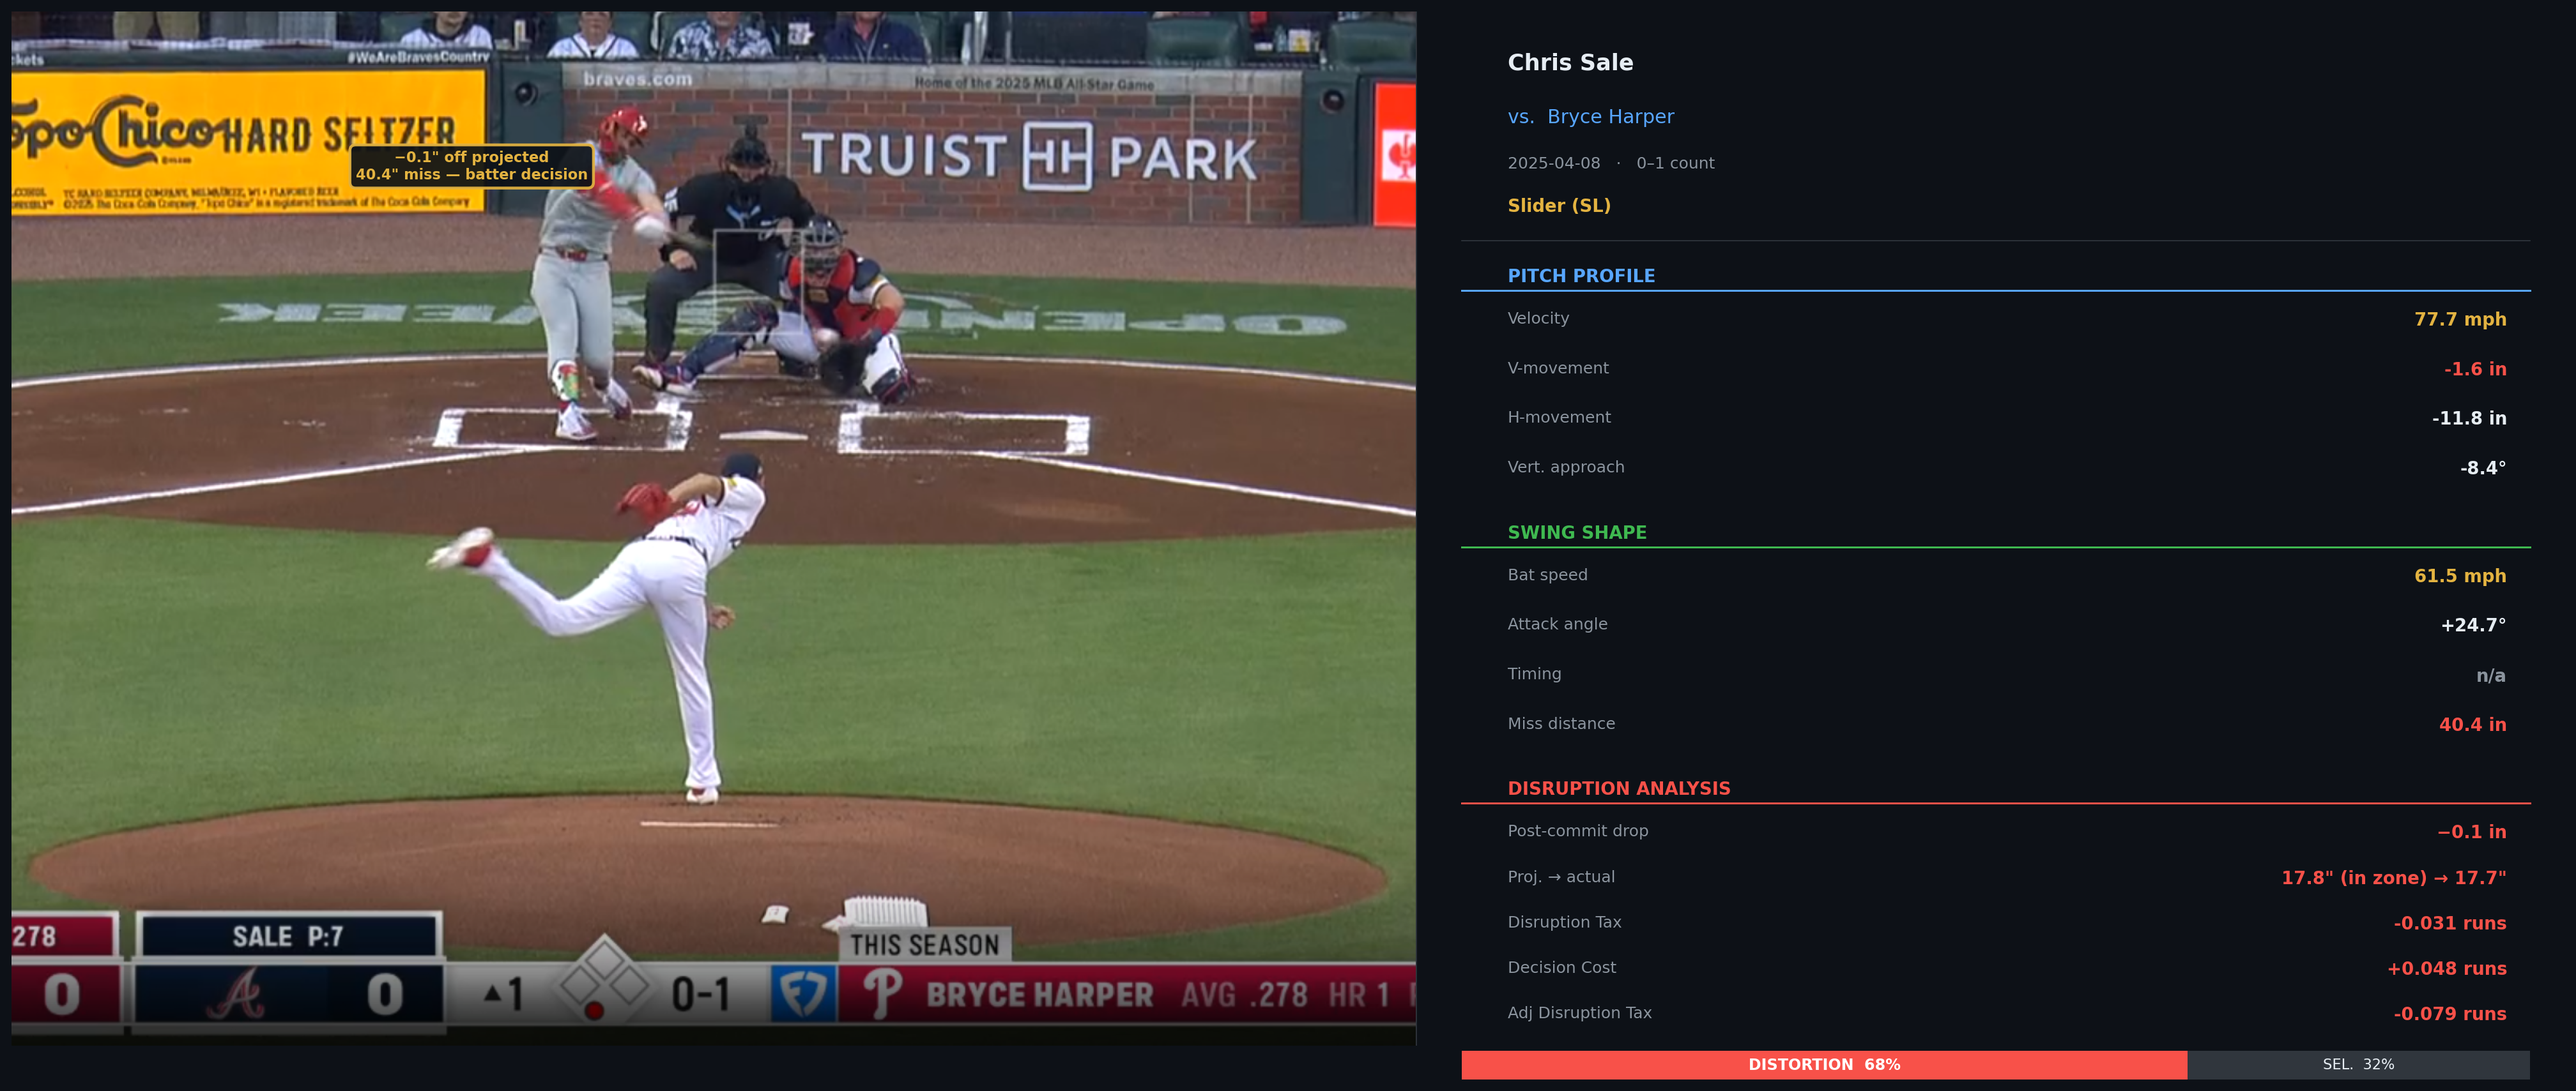
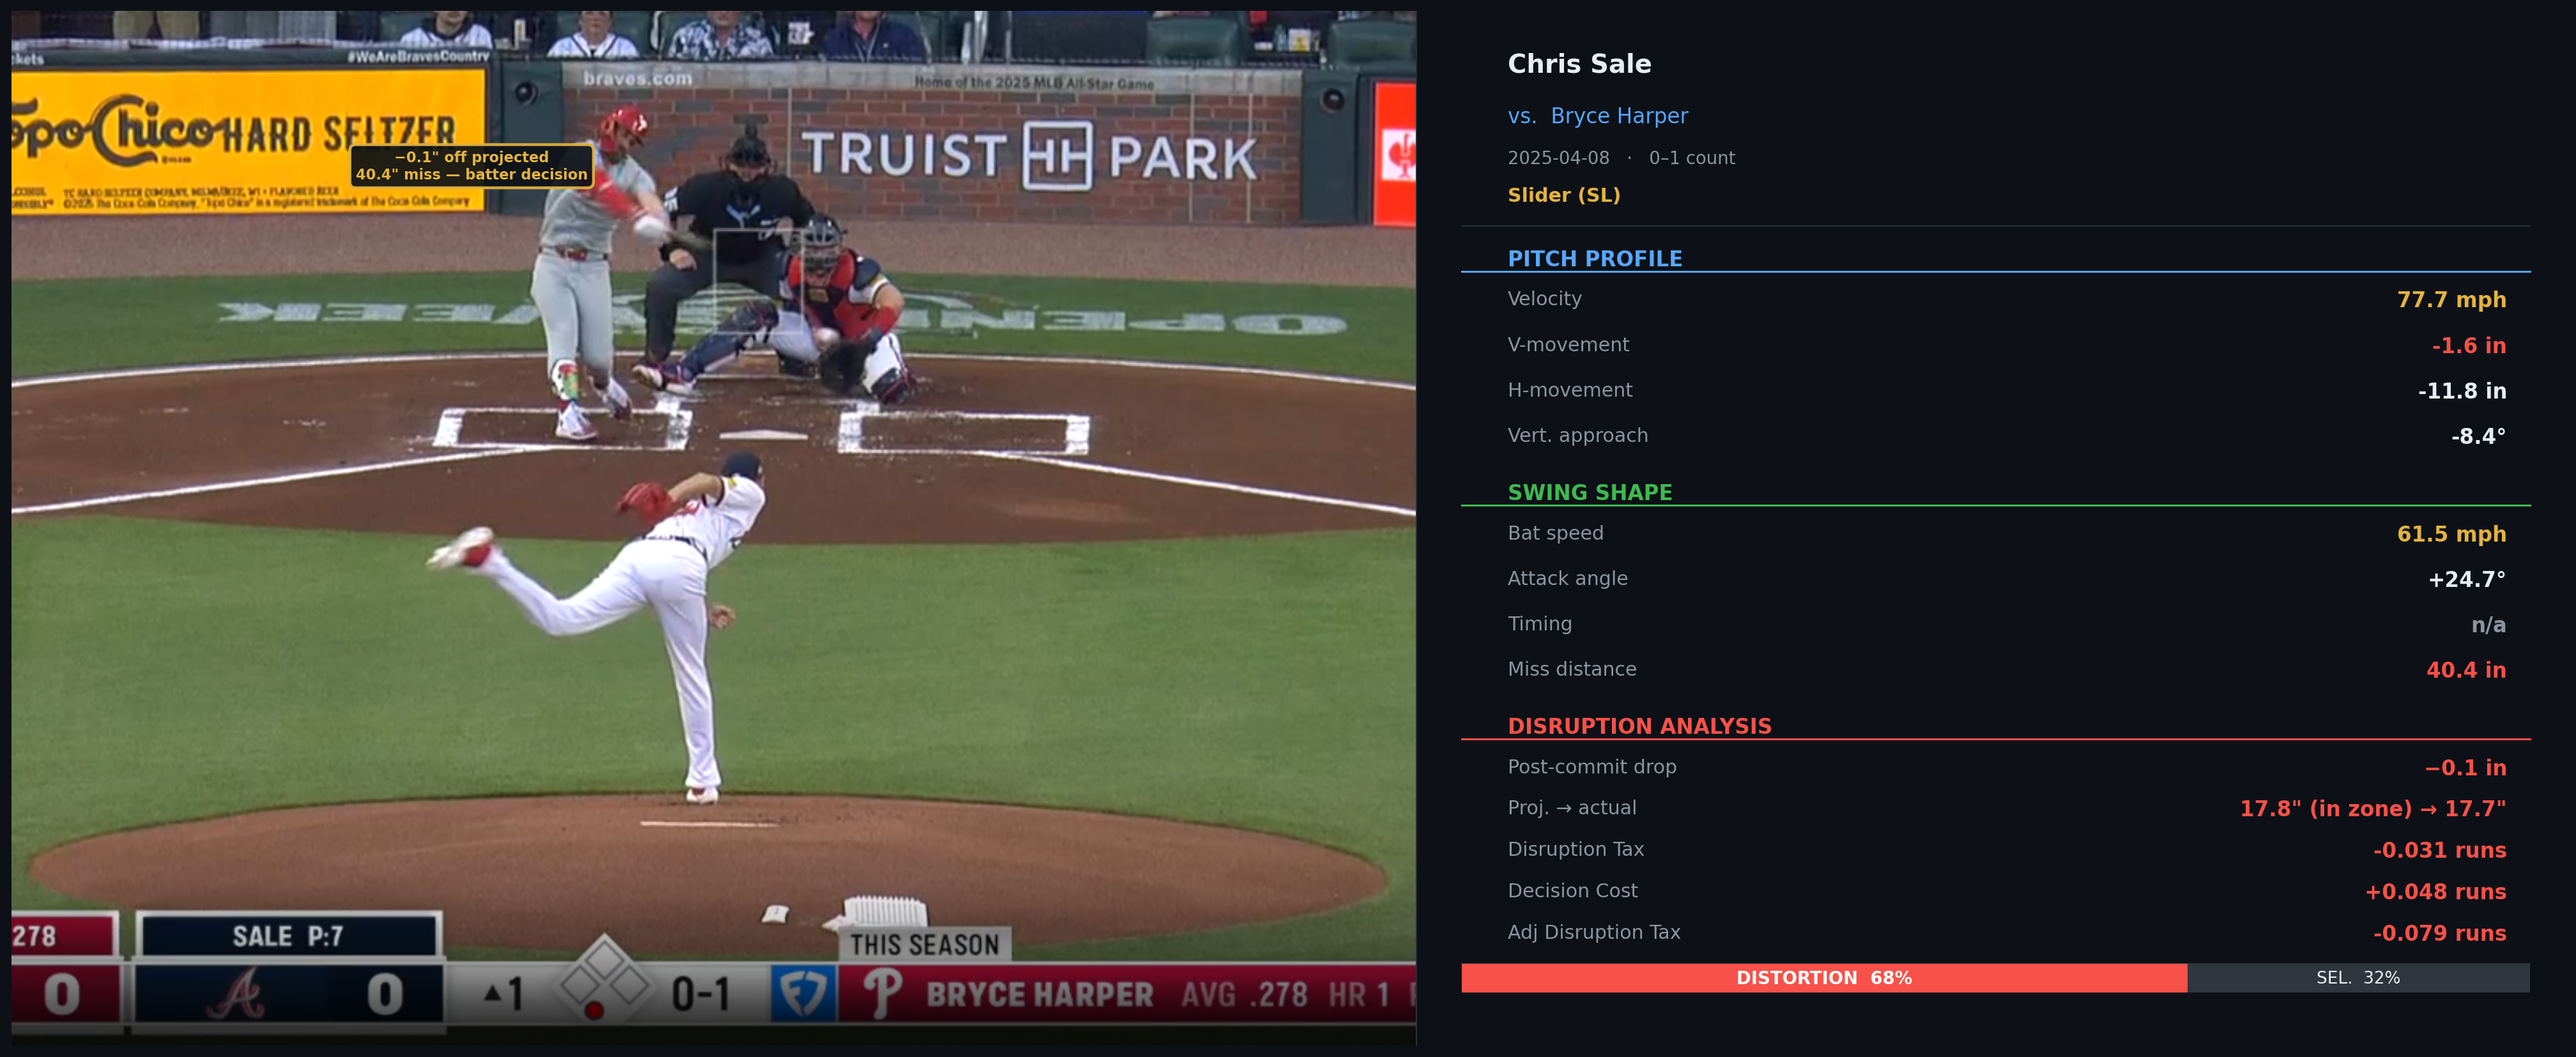
fix 3D legend colors/position; increase kinematic diagram text size
- generate_prelim.ipynb: fix legend font color (white→dark), position to
  lower-right (x=0.72, y=0.05), add dot marker legend traces; re-execute
- kinematic_diagram.py: increase row/section/header font sizes (10→12,
  11→13, 14→16), tighten row spacing (rs 0.048→0.044) for denser layout

diff --git a/src/viz/kinematic_diagram.py b/src/viz/kinematic_diagram.py
@@ -155,32 +155,32 @@ def make_broadcast_annotation(
         ax_p.plot([xs - 0.04, xe + 0.02], [y, y], color=color, lw=lw,
                   transform=ax_p.transAxes, zorder=2)
 
-    def row(y, label, val, vc=FG, ls=10, vs=11):
+    def row(y, label, val, vc=FG, ls=12, vs=13):
         ax_p.text(xs, y, label, color=GRAY, fontsize=ls, va="top",
                   transform=ax_p.transAxes)
         ax_p.text(xe, y, val, color=vc, fontsize=vs, va="top", ha="right",
                   fontweight="bold", transform=ax_p.transAxes)
 
     def section_title(y, title, tc=BLUE):
-        ax_p.text(xs, y, title, color=tc, fontsize=11, fontweight="bold",
+        ax_p.text(xs, y, title, color=tc, fontsize=13, fontweight="bold",
                   va="top", transform=ax_p.transAxes)
         hline(y - 0.022, color=tc, lw=1.2)
-        return y - 0.042
+        return y - 0.040
 
-    rs  = 0.048   # row spacing
-    pad = 0.014   # inter-section gap
+    rs  = 0.044   # row spacing
+    pad = 0.010   # inter-section gap
 
     # header
     y = 0.96
-    ax_p.text(xs, y, data["pitcher"], color=FG, fontsize=14, fontweight="bold",
-              va="top", transform=ax_p.transAxes); y -= 0.054
-    ax_p.text(xs, y, f"vs.  {data['batter']}", color=BLUE, fontsize=12,
-              va="top", transform=ax_p.transAxes); y -= 0.046
-    ax_p.text(xs, y, f"{data['game_date']}   ·   {data['count']} count",
-              color=GRAY, fontsize=10, va="top", transform=ax_p.transAxes); y -= 0.040
-    ax_p.text(xs, y, data["pitch_type"], color=AMBER, fontsize=11, fontweight="bold",
+    ax_p.text(xs, y, data["pitcher"], color=FG, fontsize=16, fontweight="bold",
+              va="top", transform=ax_p.transAxes); y -= 0.052
+    ax_p.text(xs, y, f"vs.  {data['batter']}", color=BLUE, fontsize=13,
               va="top", transform=ax_p.transAxes); y -= 0.042
-    hline(y, BORDER); y -= 0.026
+    ax_p.text(xs, y, f"{data['game_date']}   ·   {data['count']} count",
+              color=GRAY, fontsize=11, va="top", transform=ax_p.transAxes); y -= 0.036
+    ax_p.text(xs, y, data["pitch_type"], color=AMBER, fontsize=12, fontweight="bold",
+              va="top", transform=ax_p.transAxes); y -= 0.038
+    hline(y, BORDER); y -= 0.022
 
     # pitch profile
     y = section_title(y, "PITCH PROFILE", BLUE)
@@ -211,7 +211,7 @@ def make_broadcast_annotation(
     sz_top_in = data["sz_top"] * 12
     above_in  = proj_in - sz_top_in
 
-    rs_d = 0.044  # tighter spacing for this section to fit 5 rows
+    rs_d = 0.040  # tighter spacing for this section to fit 5 rows
     loc_note = f'+{above_in:.1f}" above zone' if above_in > 0 else "in zone"
     row(y, "Post-commit drop", f"−{dev_in:.1f} in", RED); y -= rs_d
     row(y, "Proj. → actual",
@@ -256,21 +256,21 @@ def make_broadcast_annotation(
     if dominant:
         lx = bx + bw * dfrac / 2
         ax_p.text(lx, by + bh / 2, f"DISTORTION  {data['distortion_share']:.0f}%",
-                  color="white", fontsize=9.5, ha="center", va="center",
+                  color="white", fontsize=11, ha="center", va="center",
                   fontweight="bold", transform=ax_p.transAxes, zorder=5)
         rx = bx + bw * dfrac + bw * (1 - dfrac) / 2
         ax_p.text(rx, by + bh / 2, f"SEL.  {sel_pct:.0f}%",
-                  color=FG, fontsize=9, ha="center", va="center",
+                  color=FG, fontsize=10.5, ha="center", va="center",
                   transform=ax_p.transAxes, zorder=5)
     else:
         rx = bx + bw * dfrac + bw * (1 - dfrac) / 2
         ax_p.text(rx, by + bh / 2, f"SELECTION  {sel_pct:.0f}%",
-                  color="#0d1117", fontsize=9.5, ha="center", va="center",
+                  color="#0d1117", fontsize=11, ha="center", va="center",
                   fontweight="bold", transform=ax_p.transAxes, zorder=5)
         if dfrac > 0.03:
             lx = bx + bw * dfrac / 2
             ax_p.text(lx, by + bh / 2, f"{data['distortion_share']:.0f}%",
-                      color=FG, fontsize=8.5, ha="center", va="center",
+                      color=FG, fontsize=10, ha="center", va="center",
                       transform=ax_p.transAxes, zorder=5)
 
     fig.subplots_adjust(left=0, right=1, bottom=0, top=1)
